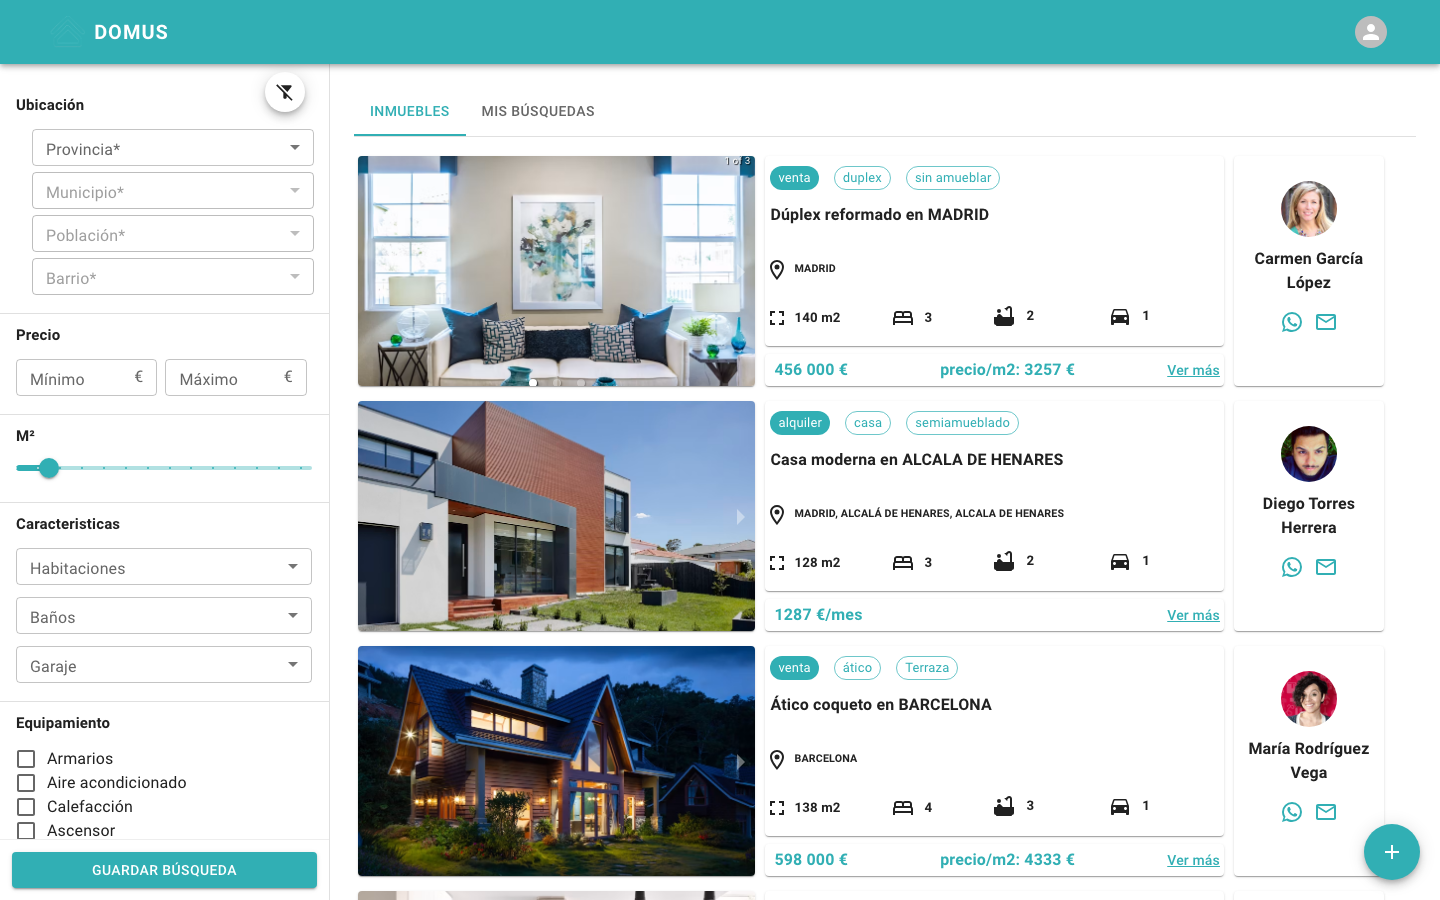
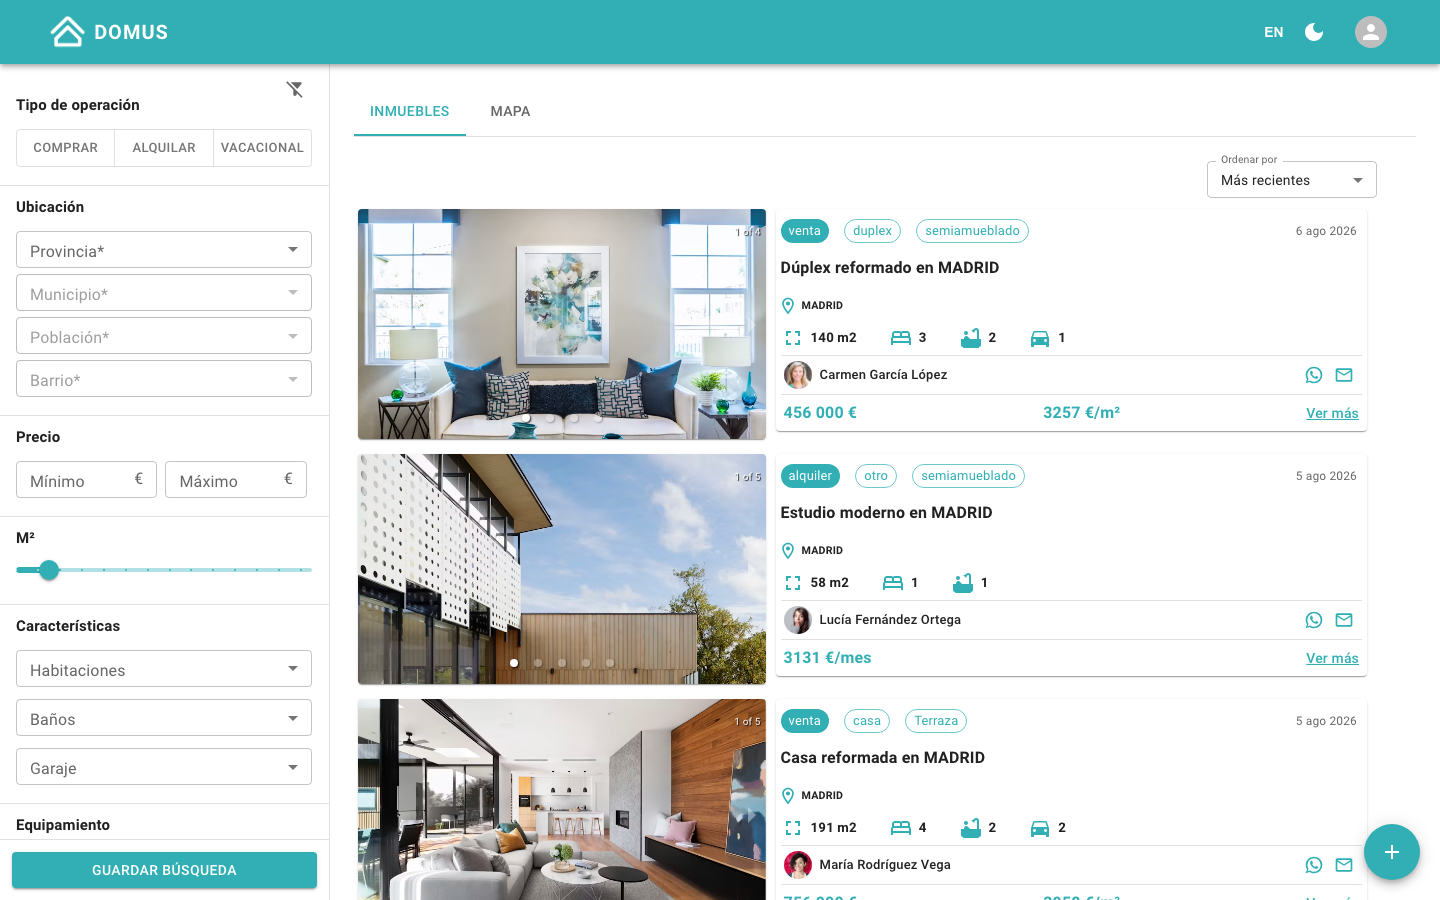
feat(portfolio): tarjeta Domus final con capturas de mapa, oscuro y móvil

diff --git a/portfolio-dev/src/components/Portfolio.jsx b/portfolio-dev/src/components/Portfolio.jsx
@@ -19,9 +19,9 @@ const Portfolio = ({ classicHeader, darkTheme }) => {
     {
       title: "Domus",
       projectInfo:
-        "Domus is a real estate platform that connects buyers, sellers and agents. Full-stack web application with property listings, advanced filters powered by real Spanish geographic data (INE), saved search requirements and user profiles. Fully responsive and deployed on Railway.",
+        "Domus is a real estate platform that connects buyers, sellers and agents. Full-stack web application with property listings, an interactive map (Leaflet), advanced filters powered by real Spanish geographic data (INE), saved searches with relevance scoring, dark mode and a bilingual interface (ES/EN). Fully responsive, tested end to end and deployed on Railway.",
       client: "personal",
-      technologies: "React, Material UI, Node.js, Express, MongoDB, JWT, Railway, Jest + Supertest (integration tests), Playwright (E2E)",
+      technologies: "React, Material UI, Leaflet, i18next (ES/EN), dark mode, Node.js, Express, MongoDB, JWT, Railway, Jest + Supertest, Playwright (E2E)",
       industry: "Web Development",
       date: "July, 2023",
       url: {
